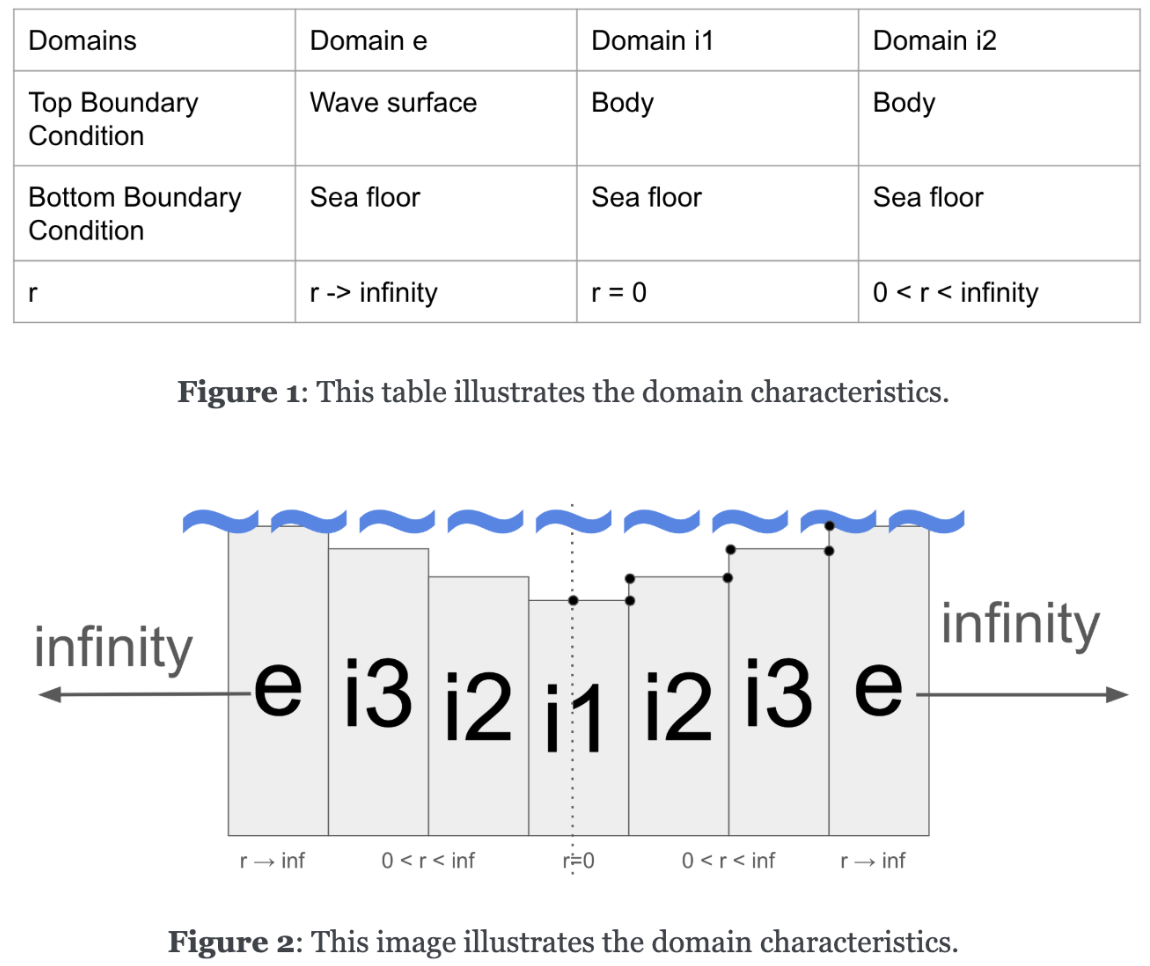
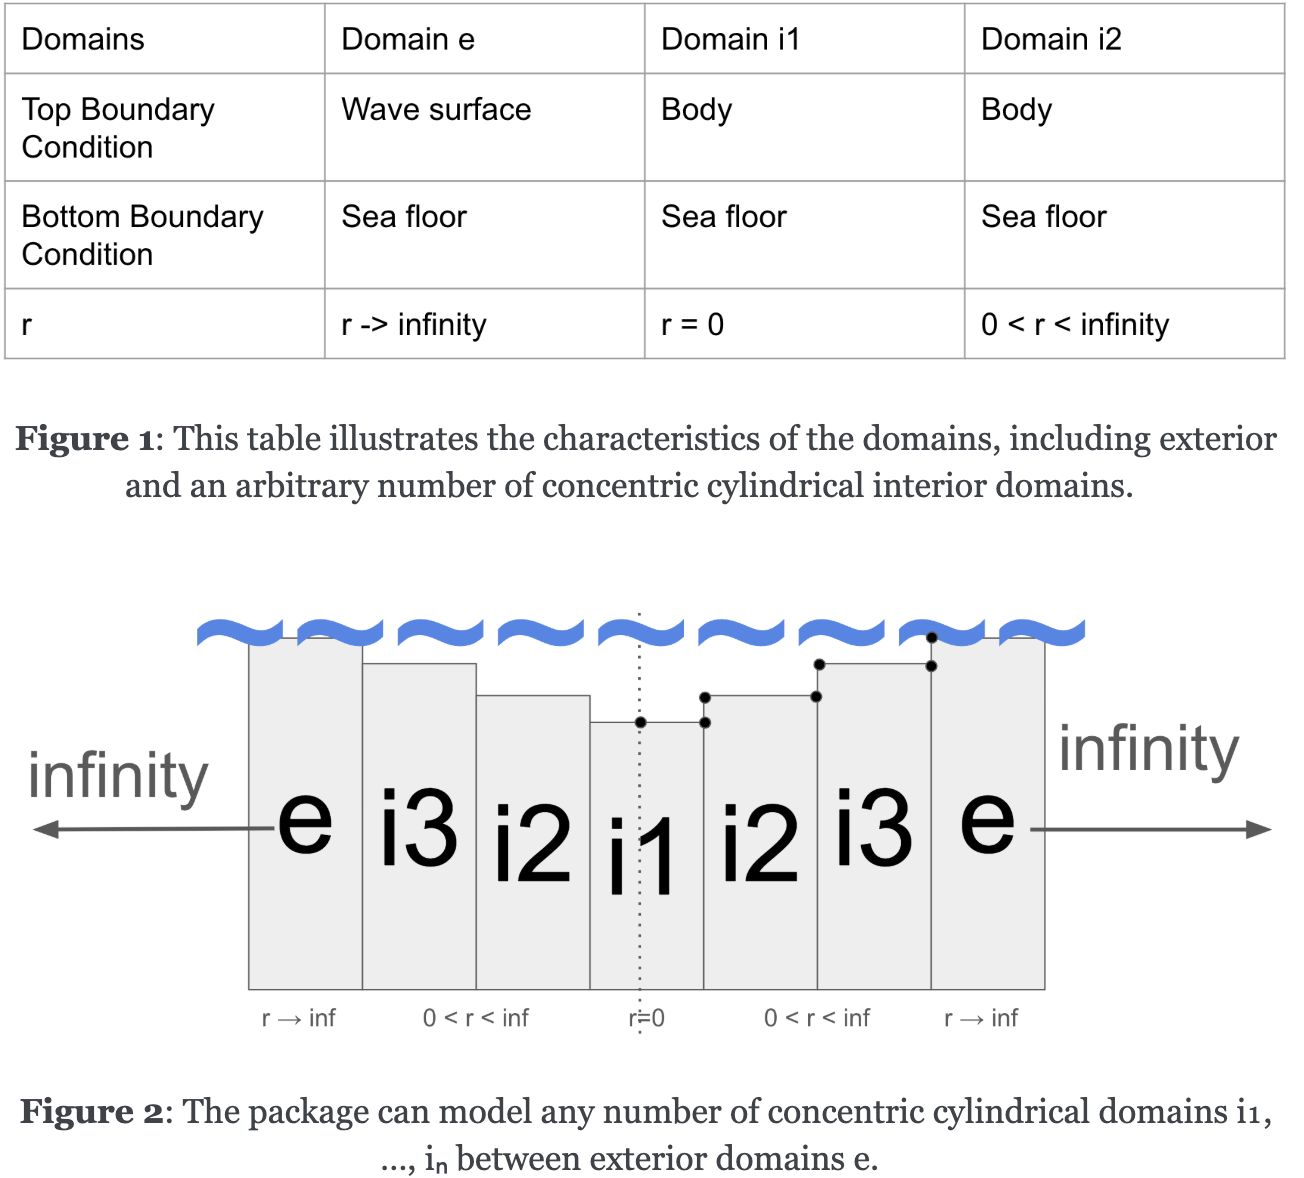
Updated figures captions - updated domain.png to more explicity convey that the package can model any number of concentric cylinders

Changed region(s): [[0.0, 0.0, 1.0, 0.4348], [0.0, 0.528, 0.9739, 0.9006], [0.0, 0.9317, 0.9739, 0.9938]]

diff --git a/docs/domain.rst b/docs/domain.rst
@@ -16,14 +16,14 @@ Domain Module
    :align: center
    :width: 100%
 
-   **Figure 1**: This table illustrates the domain characteristics.
+   **Figure 1**: This table illustrates the characteristics of the domains, including exterior and an arbitrary number of concentric cylindrical interior domains.
 
 .. figure:: _static/domain_drawing.png
    :alt: Example of how domains would look
    :align: center
    :width: 100%
 
-   **Figure 2**: This image illustrates the domain characteristics.
+   **Figure 2**: The package can model any number of concentric cylindrical domains i₁, ..., iₙ between exterior domains e.
 
 This module defines the `Domain` class, which represents the characteristics of a physical domain.
 
